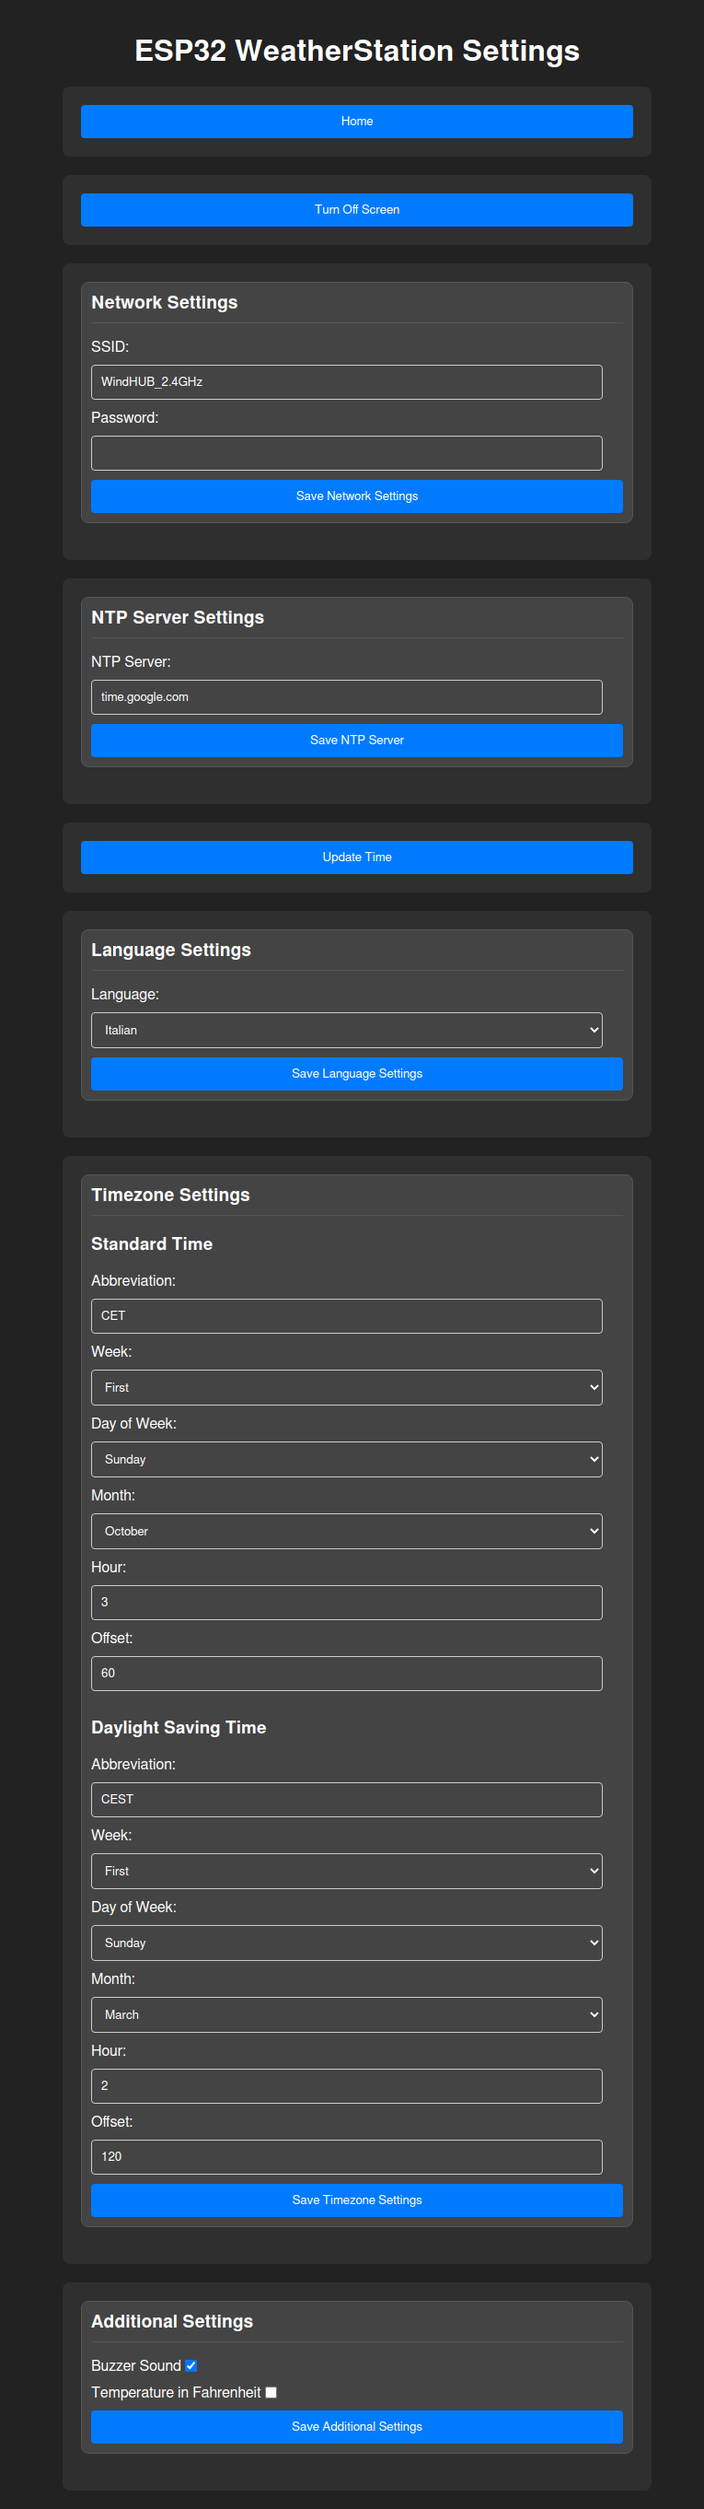
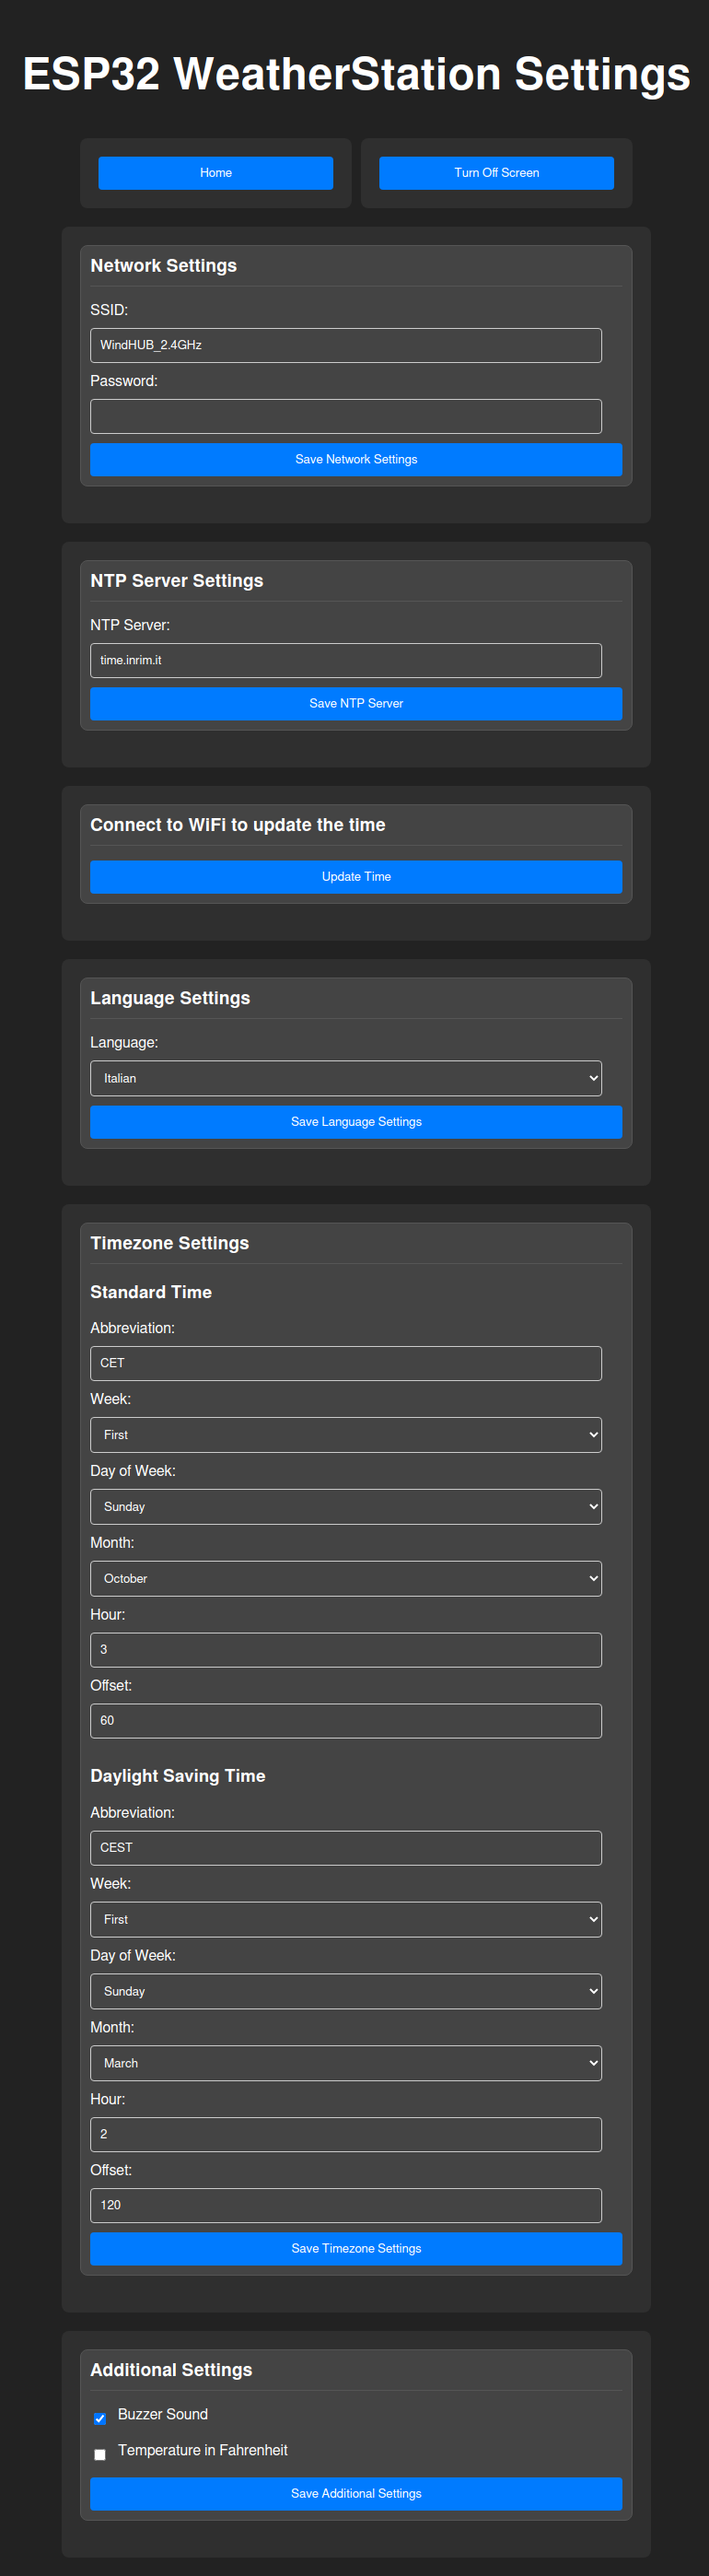
chore: minor changes in web pages

diff --git a/lib/WebSettings/WebSettings.cpp b/lib/WebSettings/WebSettings.cpp
@@ -2,7 +2,7 @@
 
 void handleSettings() {
     String html = R"(
-<!DOCTYPE HTML>
+    <!DOCTYPE HTML>
     <html>
       <head>
         <title>ESP32 Settings</title>
@@ -16,7 +16,7 @@ void handleSettings() {
           }
           h1 {
             text-align: center;
-            font-size: 2em;
+            font-size: 3em;
             color: white;
             margin-bottom: 20px;
           }
@@ -94,11 +94,10 @@ void handleSettings() {
           .checkbox-container {
             display: flex;
             align-items: center;
-            margin-bottom: 10px;
+            margin: 10px 0;
           }
           .checkbox-container label {
-            margin-bottom: 0;
-            margin-right: 10px;
+            margin-left: 10px;
           }
           .checkbox-container label:first-child {
             margin-right: 0;
@@ -329,21 +328,23 @@ void handleSettings() {
 
         <!-- Additional Settings Form -->
         <form action="/submitAdditional" method="post">
-          <div class="section">
-            <h2>Additional Settings</h2>
-            <div class="checkbox-container">
-              <label for="buzzSound">Buzzer Sound</label>
-              <input type="checkbox" id="buzzSound" name="buzzSound")" + String(conf.buzzSound ? " checked " : "") + R"()>
+          <div class="container">
+            <div class="section">
+              <h2>Additional Settings</h2>
+              <div class="checkbox-container">
+                <input type="checkbox" id="buzzSound" name="buzzSound")" + String(conf.buzzSound ? " checked " : "") + R"()>
+                <label for="buzzSound">Buzzer Sound</label>
+              </div>
+              <div class="checkbox-container">
+                <input type="checkbox" id="fahrenheit" name="fahrenheit")" + String(conf.fahrenheit ? " checked " : "") + R"()>
+                <label for="fahrenheit">Temperature in Fahrenheit</label>
+              </div>
+              <input type="submit" value="Save Additional Settings" class="button">
             </div>
-            <div class="checkbox-container">
-              <label for="fahrenheit">Temperature in Fahrenheit</label>
-              <input type="checkbox" id="fahrenheit" name="fahrenheit")" + String(conf.fahrenheit ? " checked " : "") + R"()>
-            </div>
-            <input type="submit" value="Save Additional Settings">
           </div>
         </form>
       </body>
-    </html>
+      </html>
     )";
 
     server.send(200, "text/html", html);
@@ -466,109 +467,124 @@ void handleHome() {
   sprintf(second, "%02d", current_time.second());
 
   String html = R"HTML(
-    <!DOCTYPE html>
-    <html lang="en">
-    <head>
-      <meta charset="UTF-8">
-      <meta name="viewport" content="width=device-width, initial-scale=1.0">
-      <title>Home</title>
-      <style>
+  <!DOCTYPE html>
+  <html lang="en">
+  <head>
+    <meta charset="UTF-8">
+    <meta name="viewport" content="width=device-width, initial-scale=1.0">
+    <title>Home</title>
+    <style>
+      body {
+        font-family: Arial, sans-serif;
+        background-color: #222;
+        color: #fff;
+        margin: 0;
+        padding: 20px;
+      }
+      h1 {
+        text-align: center;
+        font-size: 3em;
+        color: white;
+        margin-bottom: 20px;
+      }
+      h2 {
+        text-align: center;
+        font-size: 2em;
+        color: white;
+        margin-bottom: 20px;
+      }
+      .container {
+        max-width: 600px;
+        margin: 0 auto;
+        background-color: rgba(50, 50, 50, 0.8);
+        padding: 20px;
+        border-radius: 8px;
+        box-shadow: 0 0 10px rgba(0, 0, 0, 0.5);
+      }
+      .section {
+        margin-bottom: 20px;
+        padding: 10px;
+        border: 1px solid #555;
+        border-radius: 8px;
+        background-color: #444;
+      }
+      p {
+        font-size: 18px;
+        line-height: 1.6;
+        margin: 10px 0;
+        text-align: center;
+      }
+      .data {
+        font-weight: bold;
+        color: #03dac6;
+      }
+      .button {
+        display: block;
+        width: 100%;
+        padding: 10px 20px;
+        font-size: 18px;
+        color: white;
+        background-color: #007bff;
+        border: none;
+        border-radius: 5px;
+        text-decoration: none;
+        margin-top: 20px;
+        text-align: center;
+        box-sizing: border-box; /* Ensure padding is included in the width */
+      }
+      .button-container {
+        text-align: center; /* Center align the button container */
+      }
+      .button:hover {
+        background-color: #0056b3;
+      }
+      @media (max-width: 600px) {
         body {
-          font-family: Arial, sans-serif;
-          background-color: #222;
-          color: #fff;
-          margin: 0;
-          padding: 20px;
-        }
-        h1 {
-            text-align: center;
-            font-size: 2em;
-            color: white;
-            margin-bottom: 20px;
-        }
-        h2 {
-          text-align: center;
-          font-size: 1.5em;
-          color: #007bff;
-          margin-bottom: 20px;
+          padding: 10px;
         }
         .container {
-          max-width: 600px;
-          margin: 0 auto;
-          background-color: rgba(50, 50, 50, 0.8);
-          padding: 20px;
-          border-radius: 8px;
-          box-shadow: 0 0 10px rgba(0, 0, 0, 0.5);
-          display: flex;
-          flex-direction: column;
-          align-items: center; /* Center align items horizontally */
-          text-align: center; /* Center align text */
+          width: 100%;
+          padding: 15px;
+          box-shadow: none;
+        }
+        h1 {
+          font-size: 2em;
+        }
+        h2 {
+          font-size: 1.5em;
         }
         p {
-          font-size: 18px;
-          line-height: 1.6;
-          margin: 10px 0;
-        }
-        .data {
-          font-weight: bold;
-          color: #03dac6;
+          font-size: 16px;
         }
         .button {
-          display: inline-block;
-          padding: 10px 20px;
-          font-size: 18px;
-          color: white;
-          background-color: #007bff;
-          border: none;
-          border-radius: 5px;
-          text-decoration: none;
-          margin-top: 20px;
-          text-align: center;
+          width: 100%;
+          padding: 12px;
+          font-size: 16px;
         }
-        .button:hover {
-          background-color: #0056b3;
-        }
-        @media (max-width: 600px) {
-          body {
-            padding: 10px;
-          }
-          .container {
-            width: 100%;
-            padding: 15px;
-            box-shadow: none;
-          }
-          h1 {
-            font-size: 2em;
-          }
-          h2 {
-            font-size: 1.5em;
-          }
-          p {
-            font-size: 16px;
-          }
-          .button {
-            width: 100%;
-            padding: 12px;
-            font-size: 16px;
-          }
-        }
-      </style>
-    </head>
-    <body>
-      <h1><strong>ESP32 WeatherStation</strong> Home</h1>
-      <div class="container">
+      }
+    </style>
+  </head>
+  <body>
+    <h1><strong>ESP32 WeatherStation</strong> Home</h1>
+    <div class="container">
+      <div class="section">
         <h2>Sensor Data</h2>
         <p>Temperature: <span class="data">)HTML" + temperatureValue + " " + temperatureUnit + R"HTML(</span></p>
         <p>Humidity: <span class="data">)HTML" + String(humidity) + R"HTML( %</span></p>
         <p>Pressure: <span class="data">)HTML" + String(pressure) + R"HTML( hPa</span></p>
+      </div>
+      <div class="section">
         <h2>Date and Time</h2>
         <p>Date: <span class="data">)HTML" + String(day) + "/" + String(month) + "/" + String(year) + R"HTML(</span></p>
         <p>Time: <span class="data">)HTML" + String(hour) + ":" + String(minute) + ":" + String(second) + R"HTML(</span></p>
+      </div>
+      <div class="button-container">
         <a href='/settings' class="button">Settings</a>
       </div>
-    </body>
-    </html>
-    )HTML";
+    </div>
+  </body>
+  </html>
+  )HTML";
 
   server.send(200, "text/html", html);
 }

diff --git a/include/Macros.h b/include/Macros.h
@@ -16,6 +16,6 @@
 #define AP_NAME "ESP32WeatherStation"
 #define AP_PASSWORD "SuP3r_S3cr3t_P@ssw0rd!"
 
-#define IP_ADDRESS 10, 10, 10, 1
-#define GATEWAY 10, 10, 10, 1
+#define IP_ADDRESS 10, 10, 10, 10
+#define GATEWAY 10, 10, 10, 10
 #define SUBNET 255, 255, 255, 0
